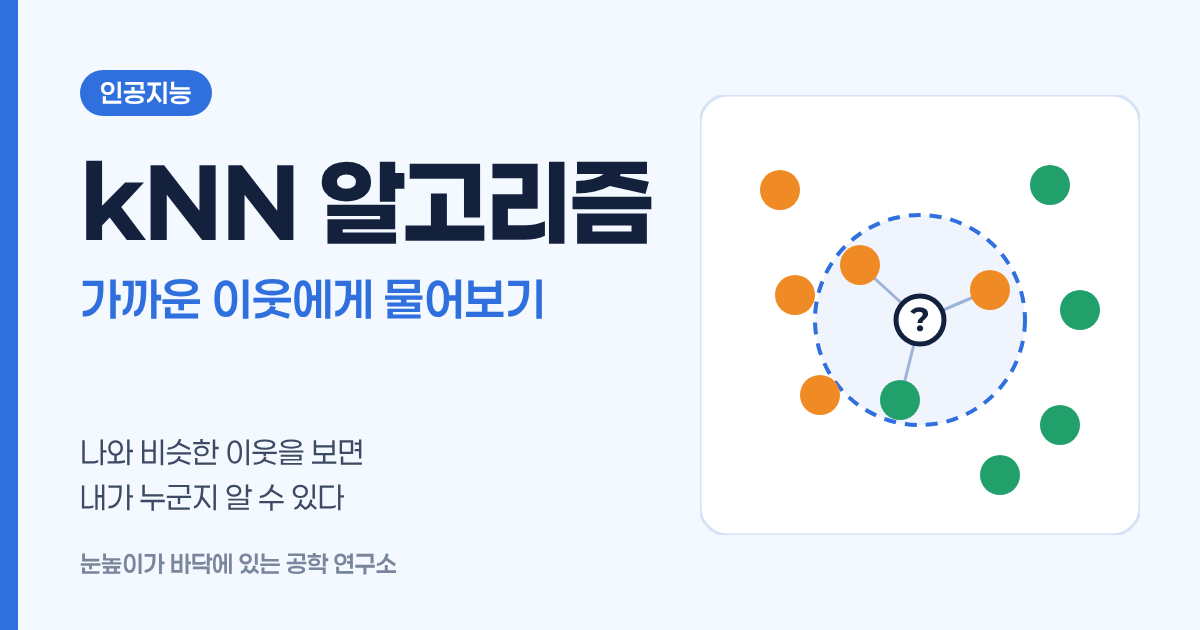
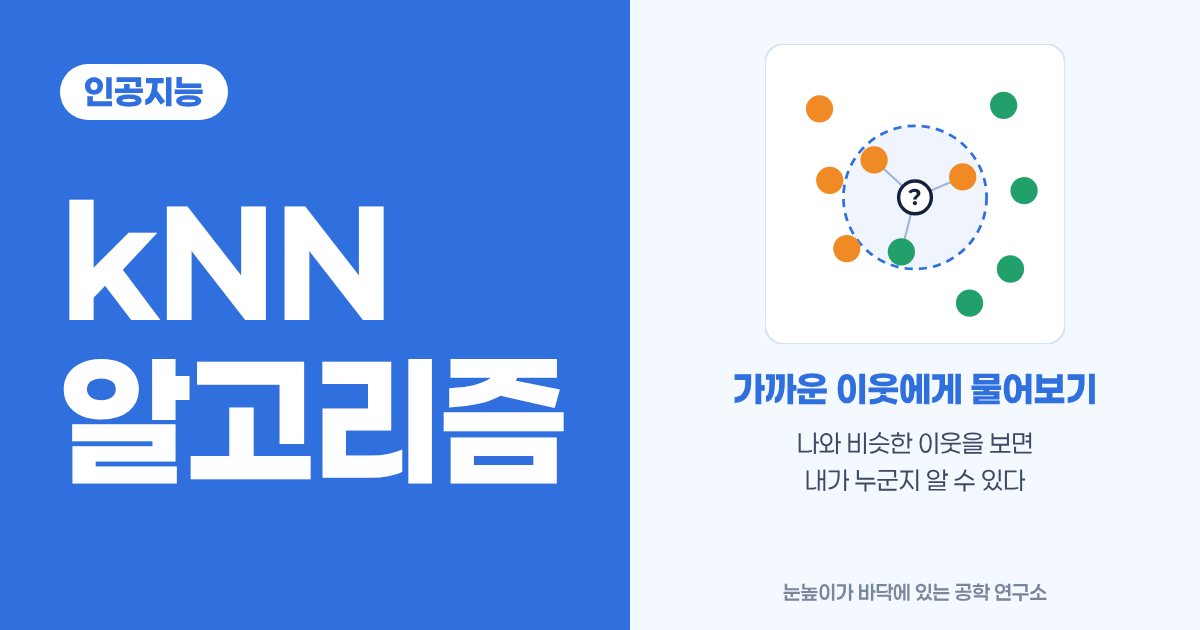
표지 새 틀(왼쪽 정사각형에 분야+큰 제목) kNN 시범 적용, 목차 앞 소개 문장(summary)
Claude-Session: https://claude.ai/code/session_01DR6nsVY4wjnLELXzx7ubGR

diff --git a/tools/cover.py b/tools/cover.py
@@ -115,35 +115,44 @@ COVERS = {  # 폴더: (그림, 한 줄 문구 — 강좌 본문 문장에서 가
     "parts-120-resistor": ("resistor", "전류가 지나가기 어렵게 만들어\n흐름을 원하는 만큼 줄여요"),
 }
 
+TITLE_LINES = {  # 왼쪽 정사각형에 크게 넣을 제목 줄(없으면 띄어쓰기 기준으로 나눔)
+    "ee-110-voltage-current-resistance": ["전압", "전류", "저항"],
+    "parts-110-map": ["전자 부품", "지도"],
+}
+
+# 왼쪽 630x630 = 블로그 목록 정사각형 썸네일 영역(분야 + 큰 제목만), 오른쪽 = 공유 미리보기에서만 보이는 보조 정보
 PAGE = """<!doctype html><html><head><meta charset="utf-8"><style>
 @font-face{{font-family:P;src:url(file://{font}/Paperlogy-4Regular.ttf);font-weight:400}}
 @font-face{{font-family:P;src:url(file://{font}/Paperlogy-6SemiBold.ttf);font-weight:600}}
 @font-face{{font-family:P;src:url(file://{font}/Paperlogy-8ExtraBold.ttf);font-weight:800}}
 *{{margin:0;box-sizing:border-box}}
 body{{width:1200px;height:630px;font-family:P;background:{bg};position:relative;overflow:hidden;word-break:keep-all}}
-.bar{{position:absolute;left:0;top:0;width:18px;height:630px;background:{c}}}
-.col{{position:absolute;left:80px;top:70px;width:580px;height:450px;display:flex;flex-direction:column}}
-.chip{{align-self:flex-start;background:{c};color:#fff;font-weight:600;font-size:26px;padding:8px 20px;border-radius:30px}}
-h1{{margin-top:34px;font-weight:800;font-size:96px;line-height:1.1;color:#14213d;letter-spacing:-1px;white-space:nowrap}}
-h2{{margin-top:14px;font-weight:600;font-size:46px;line-height:1.3;color:{c};text-wrap:balance}}
-.quote{{margin-top:auto;font-size:30px;line-height:1.5;color:#3d4a63}}
-.blog{{position:absolute;left:80px;bottom:52px;font-size:24px;color:#7a869c;font-weight:600}}
-svg{{position:absolute;right:60px;top:95px}}
-</style></head><body><div class="bar"></div>
-<div class="col"><span class="chip">{field}</span><h1>{t1}</h1><h2>{t2}</h2><p class="quote">{quote}</p></div>
-<p class="blog">눈높이가 바닥에 있는 공학 연구소</p>
-<svg width="440" height="440" viewBox="0 0 440 440">
+.sq{{position:absolute;left:0;top:0;width:630px;height:630px;background:{c};padding:64px 60px;display:flex;flex-direction:column}}
+.chip{{align-self:flex-start;background:#fff;color:{c};font-weight:800;font-size:34px;padding:8px 24px;border-radius:40px}}
+.tw{{flex:1;display:flex;align-items:center}}
+h1{{font-weight:800;font-size:150px;line-height:1.08;color:#fff;letter-spacing:-2px;white-space:nowrap}}
+.rt{{position:absolute;left:680px;top:44px;width:470px;height:560px;display:flex;flex-direction:column;text-align:center}}
+svg{{align-self:center}}
+h2{{margin-top:22px;font-weight:800;font-size:36px;line-height:1.3;color:{c};text-wrap:balance}}
+.quote{{margin-top:12px;font-size:25px;line-height:1.5;color:#3d4a63}}
+.blog{{margin-top:auto;font-size:20px;color:#7a869c;font-weight:600}}
+</style></head><body>
+<div class="sq"><span class="chip">{field}</span><div class="tw"><h1>{t1}</h1></div></div>
+<div class="rt">
+<svg width="300" height="300" viewBox="0 0 440 440">
 <defs><marker id="ar" markerWidth="10" markerHeight="10" refX="5" refY="5" orient="auto"><path d="M0 0 L10 5 L0 10z" fill="#9aa6bb"/></marker></defs>
 <rect x="0" y="0" width="440" height="440" rx="28" fill="#fff" stroke="#d6e2f5" stroke-width="3"/>{motif}
-</svg></body></html>"""
+</svg>
+<h2>{t2}</h2><p class="quote">{quote}</p><p class="blog">눈높이가 바닥에 있는 공학 연구소</p></div>
+</body></html>"""
 
-FIT_JS = """() => {  // 제목이 칸보다 넓으면 글자를 줄임(최소 64px), 부제가 3줄 이상이면 줄임
-  const h1 = document.querySelector('h1'), h2 = document.querySelector('h2'), col = document.querySelector('.col');
-  let s = 96; while (h1.scrollWidth > col.clientWidth && s > 64) { s -= 2; h1.style.fontSize = s + 'px'; }
-  let t = 46; const lines = () => Math.round(h2.getBoundingClientRect().height / (t * 1.3));
-  while (lines() > 2 && t > 34) { t -= 2; h2.style.fontSize = t + 'px'; }
-  const q = document.querySelector('.quote').getBoundingClientRect(), b = h2.getBoundingClientRect();
-  return {h1: s, h2: t, h2lines: lines(), h1fit: h1.scrollWidth <= col.clientWidth, gap: Math.round(q.top - b.bottom),
+FIT_JS = """() => {  // 큰 제목: 정사각형 안(폭 510, 높이 여유)에 들어올 때까지 줄임
+  const h1 = document.querySelector('h1'), tw = document.querySelector('.tw'), rt = document.querySelector('.rt');
+  let s = 150; const fit = () => h1.scrollWidth <= tw.clientWidth && h1.scrollHeight <= tw.clientHeight;
+  while (!fit() && s > 60) { s -= 2; h1.style.fontSize = s + 'px'; }
+  const h2 = document.querySelector('h2'); let t = 36;
+  while (rt.scrollHeight > rt.clientHeight && t > 28) { t -= 2; h2.style.fontSize = t + 'px'; }
+  return {h1: s, h1fit: fit(), h2: t, right_overflow: rt.scrollHeight > rt.clientHeight,
           fonts: [...document.fonts].map(f => f.status)};
 }"""
 
@@ -167,7 +176,8 @@ def build(folders):
             title, field = meta(folder)
             t1, _, t2 = title.partition(":")
             c, bg = FIELD[field]
-            page = PAGE.format(font=FONT, bg=bg, c=c, field=html.escape(field), t1=html.escape(t1.strip()),
+            lines = TITLE_LINES.get(folder) or t1.strip().rsplit(" ", 1)
+            page = PAGE.format(font=FONT, bg=bg, c=c, field=html.escape(field), t1="<br>".join(map(html.escape, lines)),
                                t2=html.escape(t2.strip()), quote="<br>".join(map(html.escape, quote.split("\n"))),
                                motif=M[motif].replace("{c}", c))
             tmp = os.path.join(ROOT, "build", f"cover_{folder}.html")

diff --git a/tools/blogger.py b/tools/blogger.py
@@ -43,6 +43,7 @@ STYLE = """<style>
 .ezl .callout.warn>p:first-child{font-weight:normal}
 .ezl .cover{margin:0 0 18px}
 .ezl .cover img{border-radius:10px}
+.ezl .lead{font-size:1.08em;color:#333;margin:0 0 14px}
 .ezl .toc{background:#f6f8fa;border-radius:6px;padding:10px 18px;margin:12px 0 24px}
 .ezl .toc ul{margin:6px 0;padding-left:4px;list-style:none}
 .ezl .toc li{margin:2px 0}
@@ -168,6 +169,8 @@ def to_html(folder, sha=None):
         toc_html = '<div class="toc"><b>목차</b><ul>' + "".join(
             f'<li><a href="#{s}">{html.escape(t)}</a></li>' for s, t in toc) + "</ul></div>"
     out = out.replace("<p>ZZTOCZZ</p>", toc_html)
+    if meta.get("summary"):  # 목차 앞 소개 문장 = 블로그 목록에 보이는 소개 글
+        out = f'<p class="lead">{html.escape(meta["summary"])}</p>' + out
     if os.path.exists(os.path.join(ROOT, folder, "cover.png")):  # 표지 = 본문 첫 그림 = 블로거 썸네일
         out = (f'<figure class="cover"><img src="{img_base}cover.png" alt="{html.escape(meta.get("title", ""))}"/></figure>'
                + out)

diff --git a/ai-120-knn/index.md b/ai-120-knn/index.md
@@ -4,6 +4,7 @@ field: 인공지능
 order: 120
 level: 기초
 tags: [머신러닝, 분류]
+summary: "kNN(k-Nearest Neighbors, k-최근접 이웃)은 새로운 데이터가 들어왔을 때 정답을 이미 알고 있는 데이터 가운데 가장 가까운 k개를 찾고 그 이웃들이 가장 많이 속한 쪽으로 답을 정하는 방법이에요."
 notion_id: 40710cbca0ae815a8ea6f9435fe393b5
 ---
 
